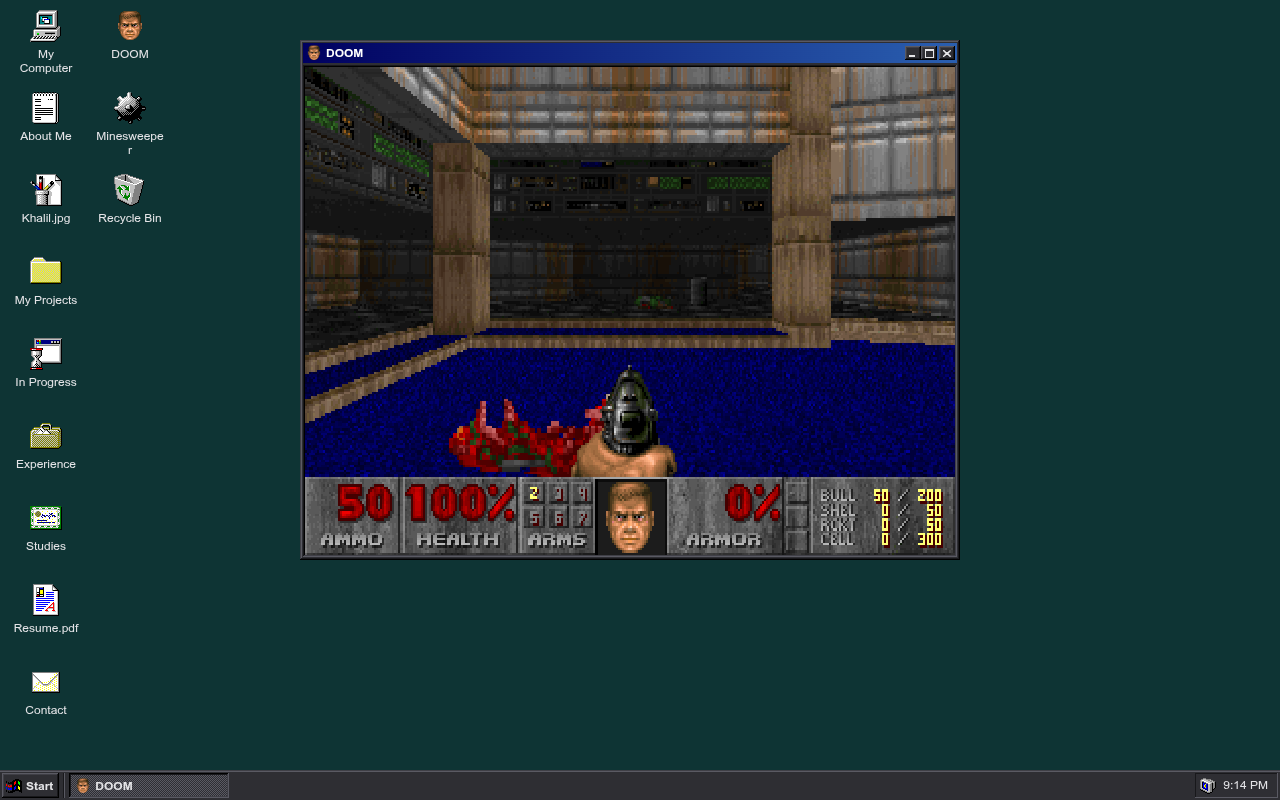
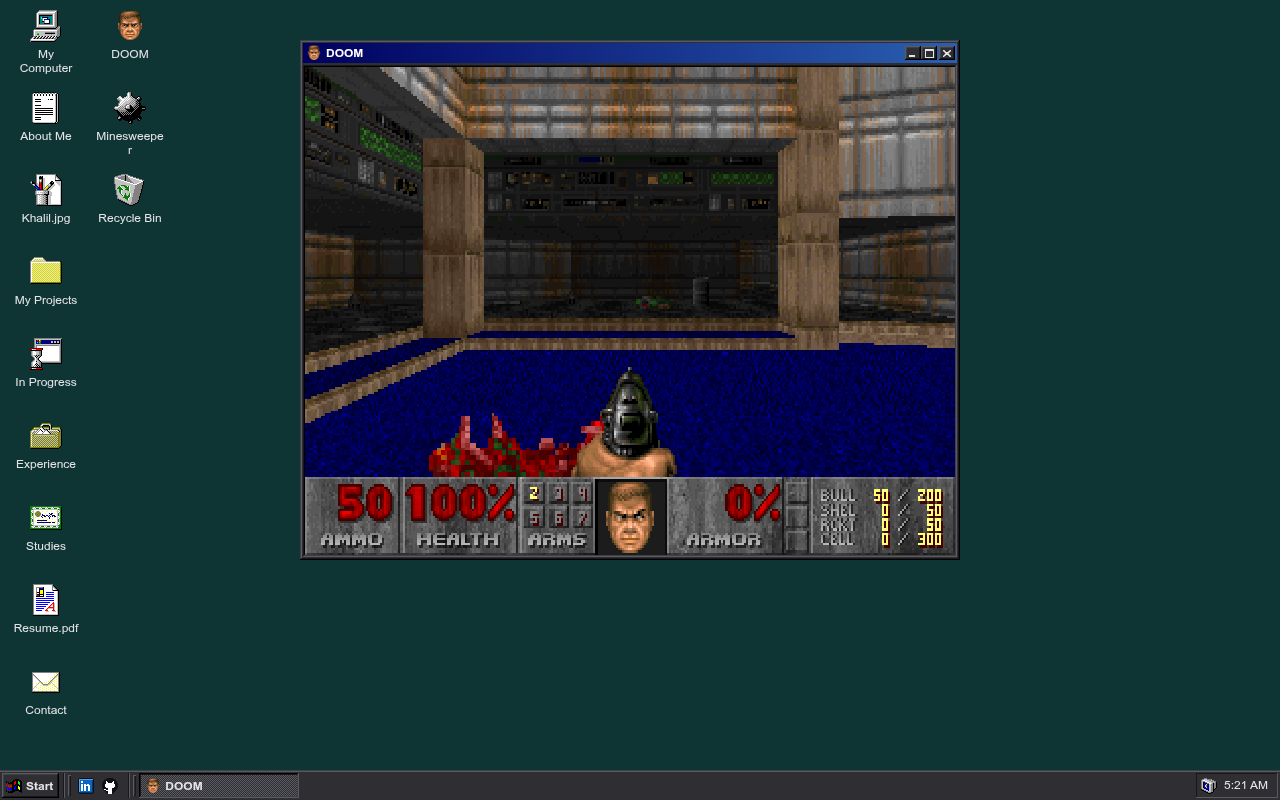
Add Quick Launch with LinkedIn and GitHub

diff --git a/index.html b/index.html
@@ -8,7 +8,7 @@
   <link rel="icon" href="icons/windows-16.png" type="image/png">
   <!-- ?v= makes browsers fetch fresh copies: change it whenever any of the .css or .js files change,
        otherwise a visitor can get the new page with the old script for up to 10 minutes after a push -->
-  <link rel="stylesheet" href="style.css?v=2026-10-19e">
+  <link rel="stylesheet" href="style.css?v=2026-10-20a">
   <script>
     // Apply a saved theme before the page draws. Dark is the default (see data-theme above).
     try { const t = localStorage.getItem('theme'); if (t) document.documentElement.dataset.theme = t; } catch { /* storage blocked */ }
@@ -620,6 +620,11 @@
   <button type="button" class="start-button" id="start-button" aria-haspopup="true" aria-expanded="false" aria-controls="start-menu">
     <img src="icons/windows-16.png" alt="">Start
   </button>
+  <!-- Quick Launch: pinned links next to Start, like Windows 98 (icons/linkedin-16.png, icons/github-16.png) -->
+  <div class="quick-launch" role="toolbar" aria-label="Quick Launch">
+    <a class="quick-launch-button" href="https://www.linkedin.com/in/khalil-sahli" target="_blank" rel="noopener" title="LinkedIn" aria-label="LinkedIn (opens in a new tab)"><img src="icons/linkedin-16.png" alt="" width="16" height="16"></a>
+    <a class="quick-launch-button" href="https://github.com/Si7li" target="_blank" rel="noopener" title="GitHub" aria-label="GitHub (opens in a new tab)"><img src="icons/github-16.png" alt="" width="16" height="16"></a>
+  </div>
   <div class="task-list" id="task-list"></div>
   <div class="tray">
     <button type="button" class="tray-button" id="theme-toggle" data-action="theme" aria-pressed="true" aria-label="Dark mode" title="Dark mode"><img src="icons/moon-16.png" alt=""></button>
@@ -635,9 +640,9 @@
 <!-- Suggestions for the explorer address bars, filled in by script.js -->
 <datalist id="explorer-paths"></datalist>
 
-<script src="paint.js?v=2026-10-19e"></script>
-<script src="minesweeper.js?v=2026-10-19e"></script>
-<script src="reader.js?v=2026-10-19e"></script>
-<script src="script.js?v=2026-10-19e"></script>
+<script src="paint.js?v=2026-10-20a"></script>
+<script src="minesweeper.js?v=2026-10-20a"></script>
+<script src="reader.js?v=2026-10-20a"></script>
+<script src="script.js?v=2026-10-20a"></script>
 </body>
 </html>

diff --git a/style.css b/style.css
@@ -591,7 +591,17 @@ legend { padding: 0 3px; font-weight: bold; }
 .start-button img { width: 16px; height: 16px; image-rendering: pixelated; }
 .start-button[aria-expanded="true"], .start-button:active { box-shadow: var(--pressed); }
 
-.task-list { display: flex; gap: 3px; flex: 1; min-width: 0; height: 100%; padding-left: 6px; box-shadow: inset 1px 0 var(--shadow), inset 2px 0 var(--highlight); }
+/* Quick Launch and the task list each start with an etched line and a raised grip, like Windows 98 */
+.quick-launch, .task-list { position: relative; height: 100%; padding-left: 11px; box-shadow: inset 1px 0 var(--shadow), inset 2px 0 var(--highlight); }
+.quick-launch::before, .task-list::before { content: ""; position: absolute; top: 2px; bottom: 2px; left: 5px; width: 3px; box-shadow: inset 1px 1px var(--highlight), inset -1px -1px var(--shadow); }
+.quick-launch { display: flex; align-items: center; gap: 1px; flex: none; padding-right: 3px; }
+.quick-launch-button { display: grid; place-items: center; width: 23px; height: 22px; }
+.quick-launch-button img { width: 16px; height: 16px; image-rendering: pixelated; }
+.quick-launch-button:hover { box-shadow: var(--thin-raised); }
+.quick-launch-button:active { box-shadow: var(--thin-sunken); }
+.quick-launch-button:active img { transform: translate(1px, 1px); }
+.quick-launch-button:focus-visible { outline: 1px dotted var(--text); outline-offset: -3px; }
+.task-list { display: flex; gap: 3px; flex: 1; min-width: 0; }
 .task {
   display: flex;
   align-items: center;

diff --git a/404.html b/404.html
@@ -5,7 +5,7 @@
   <meta name="viewport" content="width=device-width, initial-scale=1">
   <title>Page not found - Portfolio 98</title>
   <link rel="icon" href="/Portfolio_Win98/icons/windows-16.png" type="image/png">
-  <link rel="stylesheet" href="/Portfolio_Win98/style.css?v=2026-10-19e">
+  <link rel="stylesheet" href="/Portfolio_Win98/style.css?v=2026-10-20a">
   <script>
     // Apply a saved theme before the page draws. Dark is the default (see data-theme above).
     try { const t = localStorage.getItem('theme'); if (t) document.documentElement.dataset.theme = t; } catch { /* storage blocked */ }

diff --git a/README.md b/README.md
@@ -20,6 +20,7 @@ On phones, windows open full screen one at a time:
 ## Features
 
 - Draggable windows with minimize, maximize and close, a taskbar, a Start menu and a clock
+- Quick Launch next to Start with my LinkedIn and GitHub, as hand-drawn 16x16 pixel icons
 - Every window has its own link, for example [`#projects`](https://si7li.github.io/Portfolio_Win98/#projects)
 - A working Explorer: type a path like `C:\Desktop\My Projects` in the address bar, go Back / Forward / Up, and use real File, Edit, View and Help menus (keyboard too: Alt+letter, arrows, Esc)
 - Notepad menus that work: Save As downloads the text, Copy, Select All, Word Wrap, Find / Find Next
